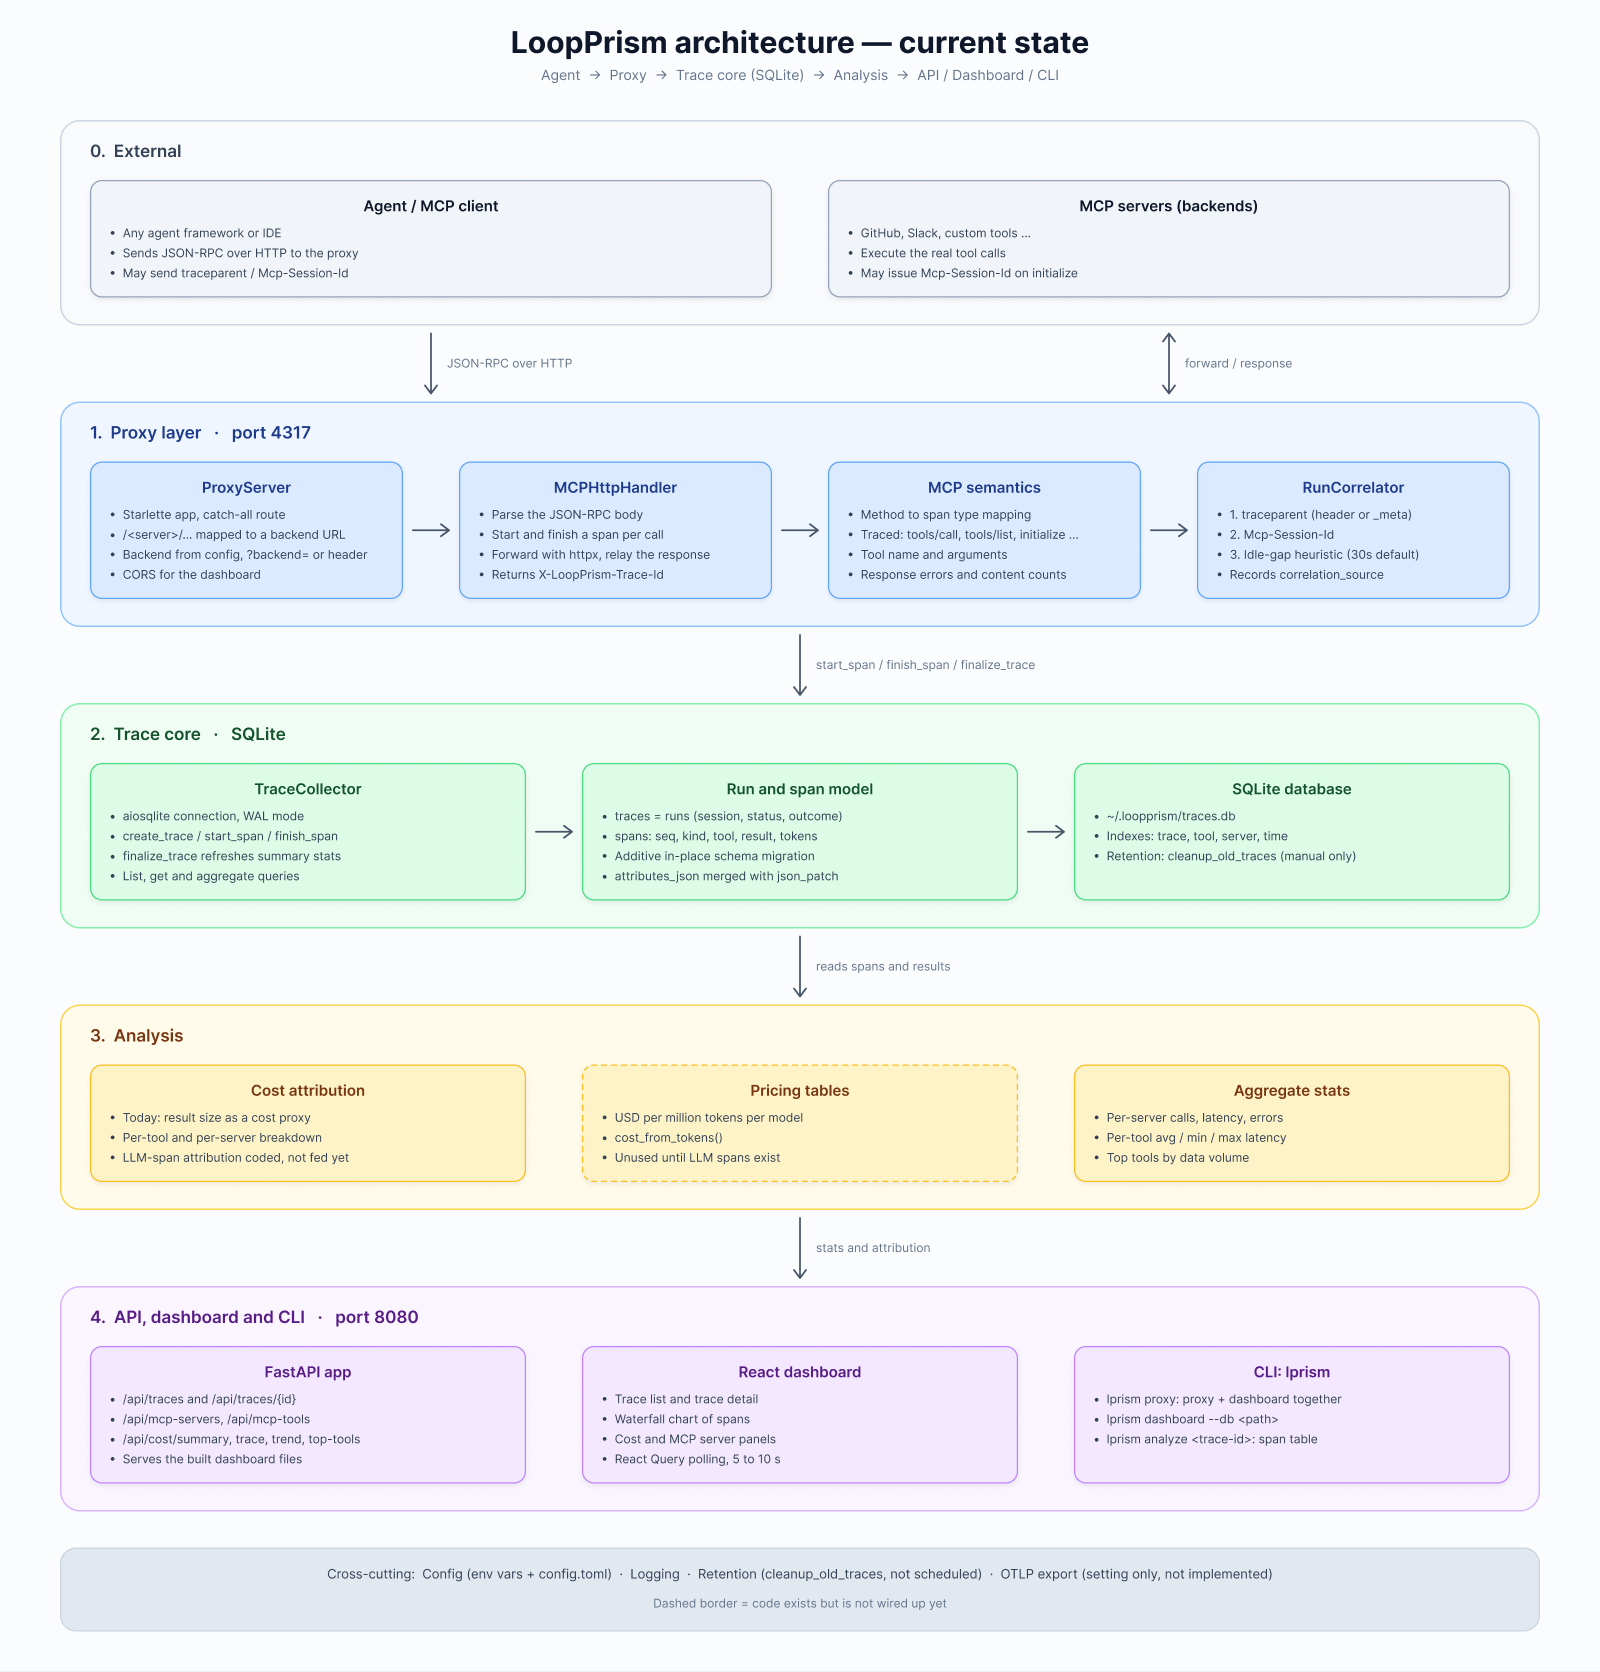
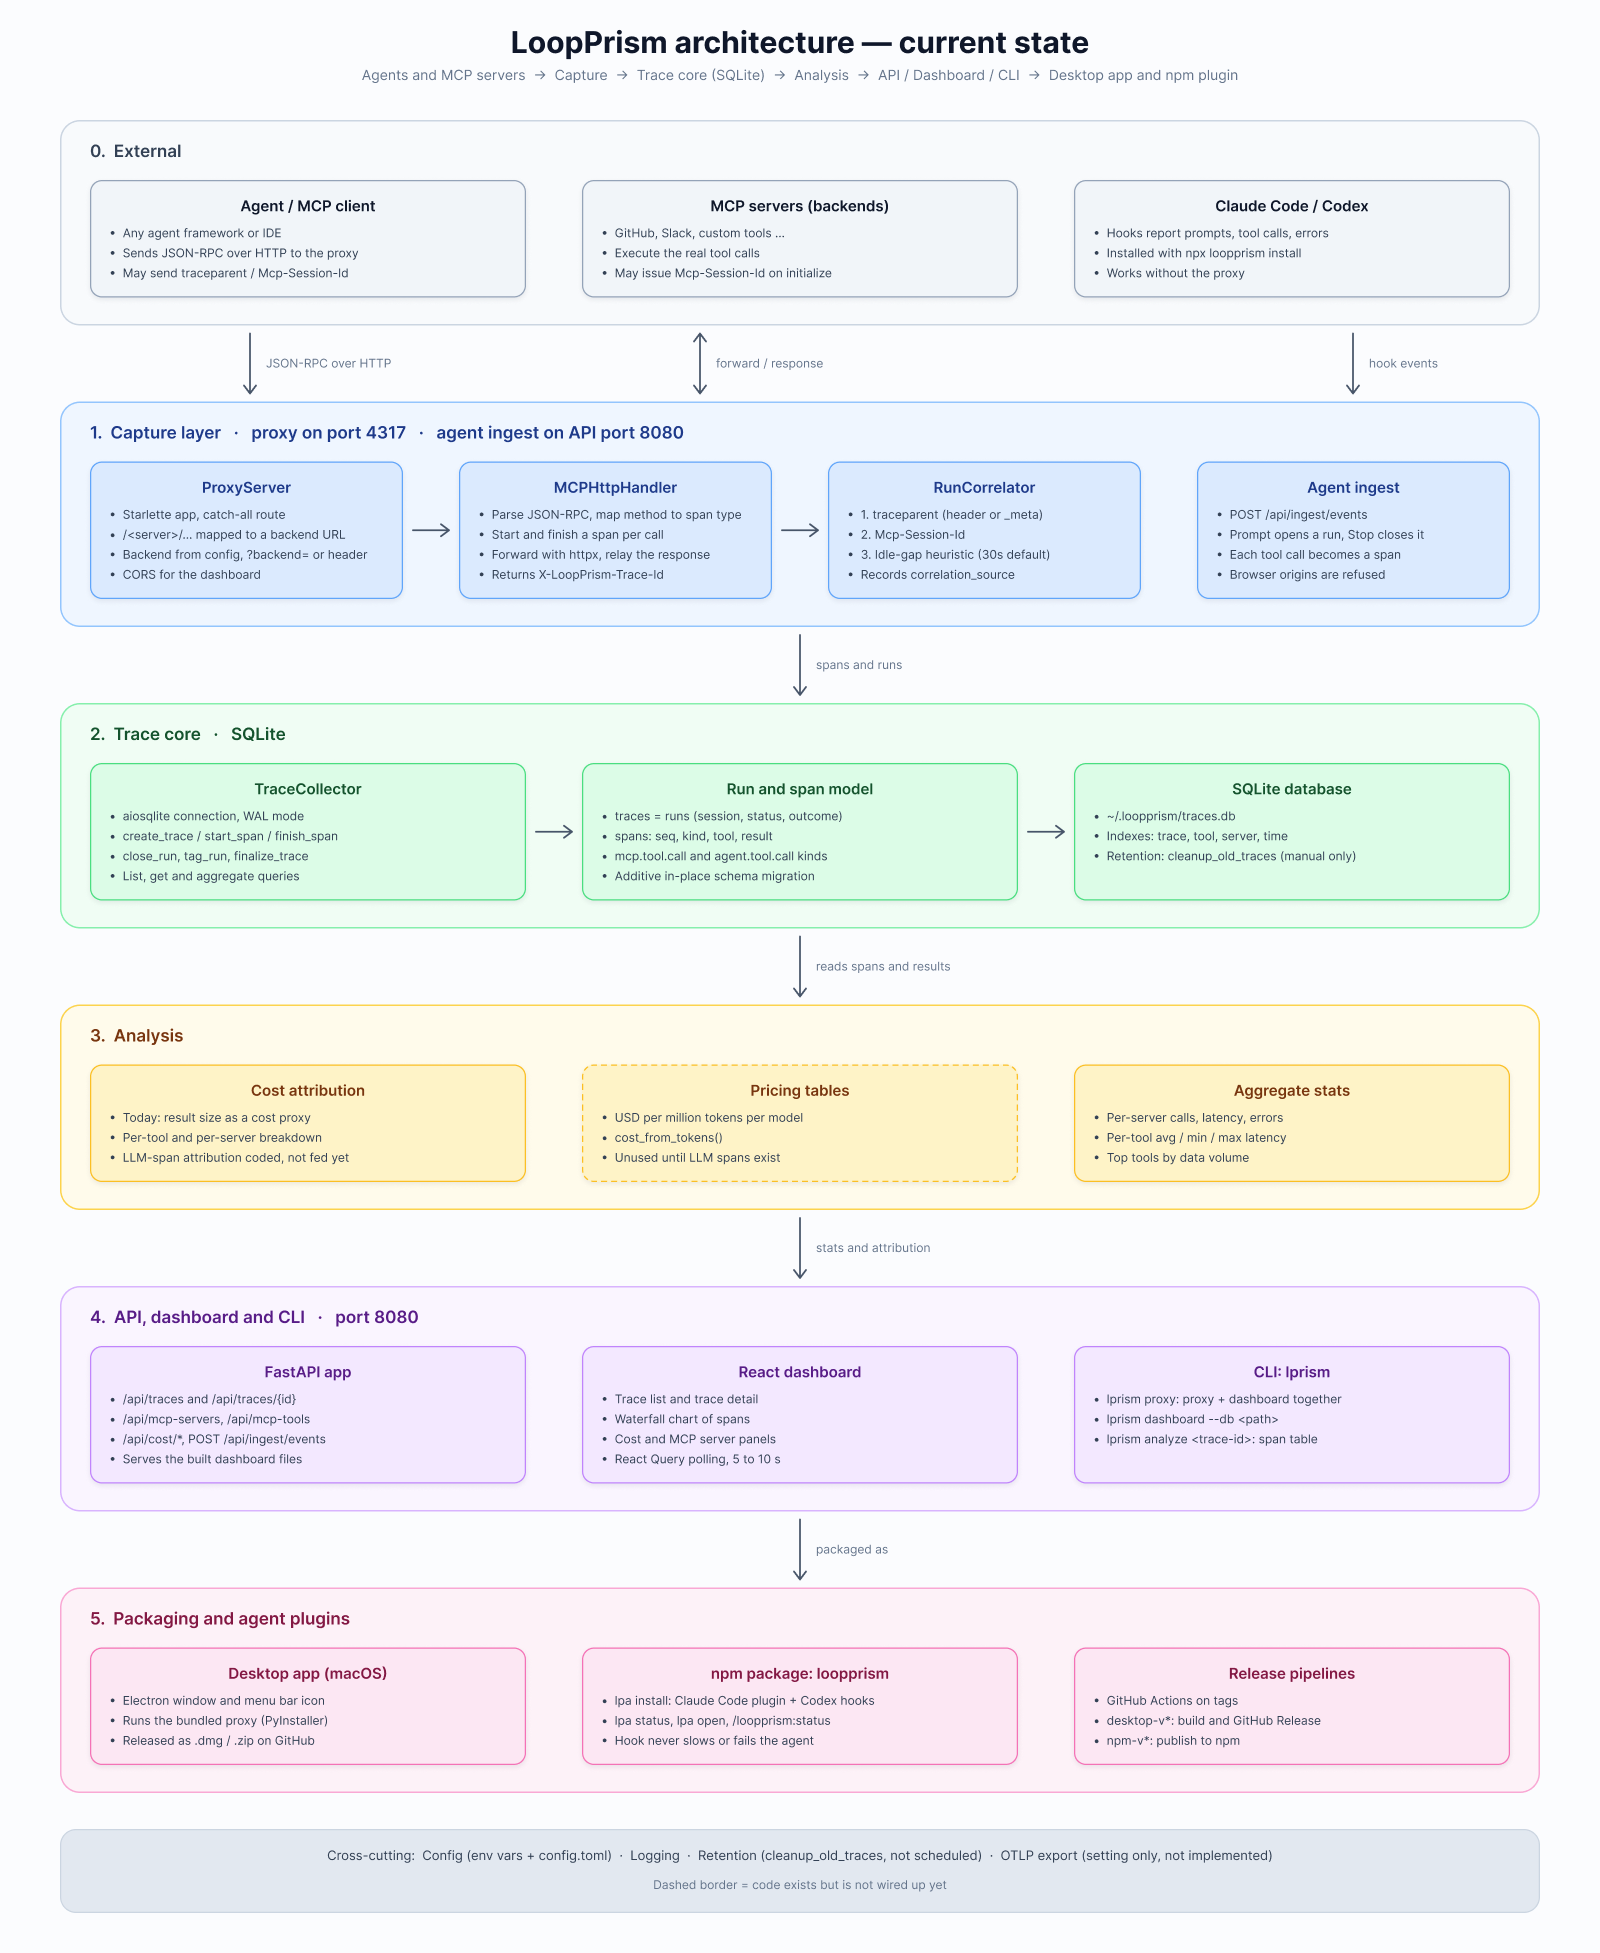
docs: README for desktop app and agent hooks; refresh architecture diagrams
Add desktop app section and a which-to-use table, note /hooks trust for Codex,
and redraw both diagrams for agent ingest, run lifecycle, desktop app, npm
plugin and release pipelines.

diff --git a/README.md b/README.md
@@ -24,6 +24,14 @@ lprism proxy --port 4317
 
 Then open `http://localhost:8080` and watch every MCP call appear in real time.
 
+**Three ways to use it** (they share one trace database, `~/.loopprism/traces.db`):
+
+| You want | Use |
+|---|---|
+| A double-click app, no Python or terminal | [Desktop app](#desktop-app-macos) |
+| See what Claude Code or Codex did (every tool call, not only MCP) | [`npx loopprism install`](#claude-code-and-codex) |
+| See calls from MCP clients, or run it headless | `lprism proxy` (above) |
+
 ## Features
 
 - **Waterfall traces** — See every MCP tool call with timing, result size, and error state
@@ -87,6 +95,19 @@ Visit `http://localhost:8080` — every MCP tool call appears in real time with:
 - Cost breakdown by tool
 - MCP server health stats
 
+## Desktop app (macOS)
+
+Download the latest `.dmg` from the
+[Releases page](https://github.com/AMark-CS/LoopPrism/releases/latest): `arm64` for Apple
+Silicon, `x64` for Intel. Drag **LoopPrism** into Applications and open it. It bundles the
+proxy and the dashboard (no Python needed), shows the dashboard in a window, and keeps
+running from the menu bar.
+
+The app is not signed or notarized yet, so macOS blocks the first launch: right-click the
+app and choose **Open**, or run `xattr -dr com.apple.quarantine /Applications/LoopPrism.app`.
+Point MCP clients at `http://127.0.0.1:4317/<server-name>` (the menu bar icon has
+**Copy proxy URL**). More in [desktop/README.md](desktop/README.md).
+
 ## Claude Code and Codex
 
 The MCP proxy only sees MCP calls. To record everything a coding agent does (shell
@@ -98,7 +119,8 @@ npx loopprism install      # Claude Code and/or Codex, whichever is installed
 lpa status                 # newest runs (after: npm install -g loopprism)
 ```
 
-Claude Code can also use the plugin directly: `/plugin marketplace add AMark-CS/LoopPrism`,
+Start LoopPrism first (the desktop app, or `lprism proxy`), then restart your agent. In Codex,
+run `/hooks` once to trust the new hooks. Claude Code can also use the plugin directly: `/plugin marketplace add AMark-CS/LoopPrism`,
 then `/plugin install loopprism@loopprism`. Details, privacy options and uninstall are in
 [npm/README.md](npm/README.md). Each prompt becomes a run; tool calls become spans.
 
@@ -113,7 +135,7 @@ Agent ──▶ LoopPrism Proxy ──▶ MCP Server
               └── Serves Dashboard (http://localhost:8080)
 ```
 
-Current layers, top to bottom (proxy, trace core, analysis, API / dashboard / CLI):
+Current layers, top to bottom (capture, trace core, analysis, API / dashboard / CLI, packaging):
 
 ![LoopPrism architecture, current state](docs/assets/architecture-current.png)
 
